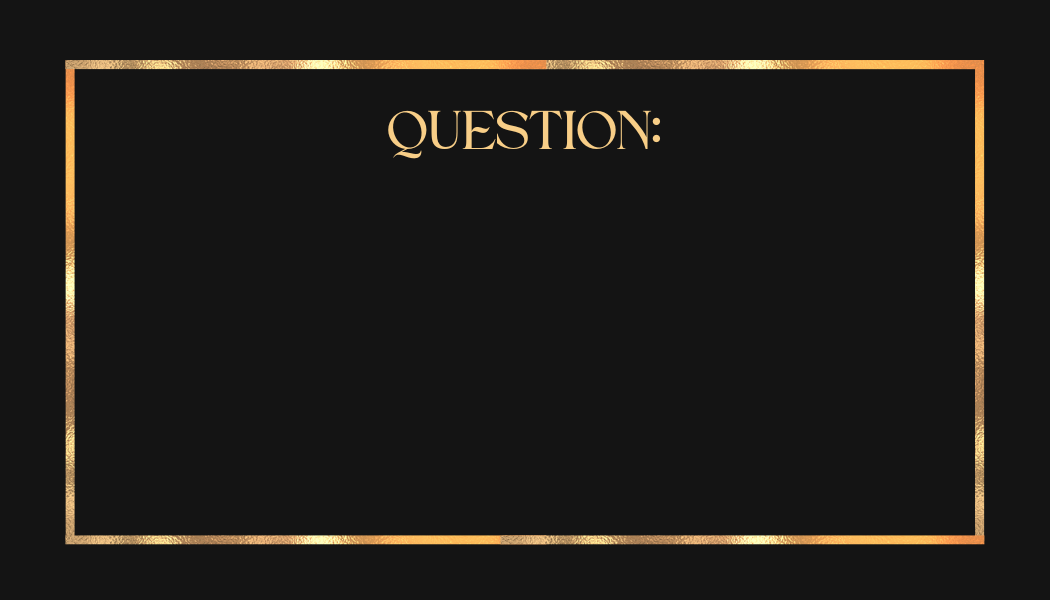
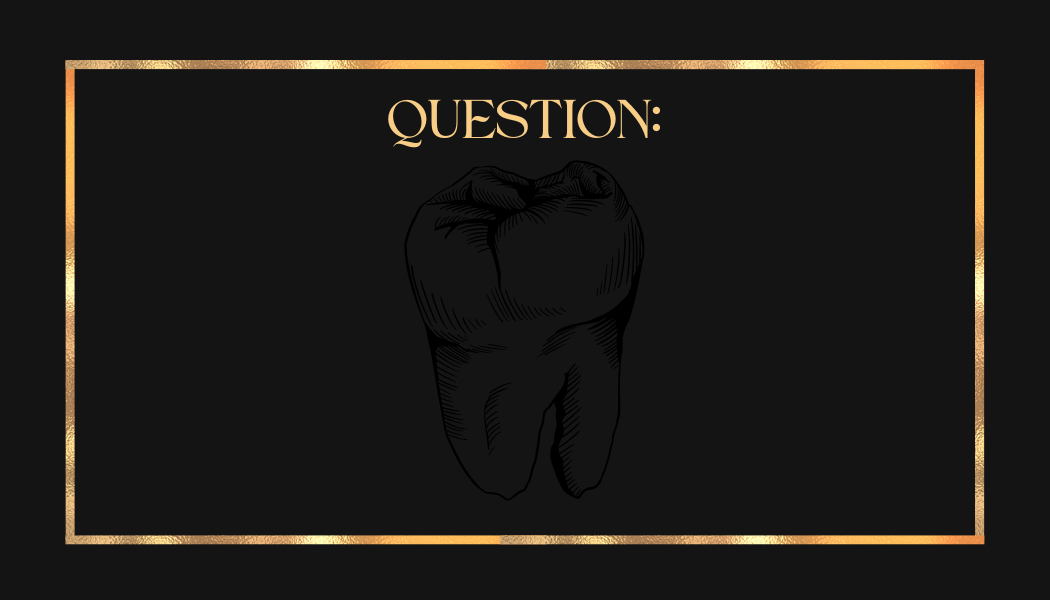
Try again the reveal on mobile

Changed region(s): [[0.3657, 0.15, 0.64, 0.27]]

diff --git a/components/components.module.css b/components/components.module.css
@@ -8,6 +8,7 @@
     border: 2px solid grey;
     border-radius: 20px;
     position: relative;
+
 }
 
 .checkout-container{
@@ -46,14 +47,15 @@
 }
 
 /*-----------------------------------------------------------------------------------QuizCardStyles-------------------------------------------------------------------------------*/
-
+ 
 .quizCardContainer{
     position: relative;
     width: 700px;
     height: 400px;   
     border-radius: 10px;
     transition: transform 1.5s; 
-    cursor: pointer;
+    cursor: pointer; 
+    transform-style: preserve-3d; 
 }
 
 .back{
@@ -62,15 +64,16 @@
     height: 100%; 
     border-radius: 10px;  
     overflow: hidden; 
+    backface-visibility: hidden;  
 }
 
 .back::before{
     content: "";
     position: absolute;
-    left: 250px;
-    width: 180px;
-    height: 820px; 
-    top: -210px;
+    width: 25%;
+    height: 210%; 
+    top: -55%;
+    left: 37.5%;
     background: linear-gradient(to right, #ffd700, #b8860b); 
     box-shadow: 2px 0 30px rgb(255, 170, 0);
     animation: animate 10s linear infinite;
@@ -114,7 +117,9 @@
     display: none; 
 }
  
-
+.tilting{
+    animation: tilting 3s linear infinite;
+}
 
 @keyframes animate{
     0%{
@@ -123,6 +128,45 @@
         transform: rotate(360deg);
     }
 }
+ 
+/*------------------------------------------------------------------------Navbar Styles---------------------------------------------------------------------------------- */
+
+.navbarContainer{ 
+    width: 100%;
+    background-color: linear-gradient(to right, #f5f5f5, #ffffff, #e0f7fa);; 
+    display: flex;
+    justify-content: space-between; 
+    padding: 20px 50px;
+    align-items: center;
+}
+
+.intro{
+    display: flex;
+    align-items: center;
+    gap: 10px;
+    font-size: 25px;
+}
+
+.navigation{
+    display: flex; 
+    height: 25px;
+    width: 300px;
+    justify-content: space-between; 
+    font-size: 20px; 
+} 
+
+.navigation a{
+    border-bottom: 2px solid #b8870b00;
+    transition: all 0.4s ease-out;
+}
+
+.navigation a:hover{ 
+    border-bottom: 2px solid #f696a4;
+}
+
+
+/*---------------------------------------------------------------------Media Styles------------------------------------------------------------------------ */
+
 
 @media screen and (max-width: 1000px) {
     .quizCardContainer{ 
@@ -130,17 +174,31 @@
         height: 286px;    
     }
     .question{
-        font-size: 15px; 
+        font-size: 23px; 
+        width: 450px;
+    }
+}
+
+@media screen and (max-width: 700px) {
+    .quizCardContainer{ 
+        width: 400px;
+        height: 229px;    
+    }
+    .question{
+        font-size: 20px; 
         width: 300px;
+    }
+    .introTitle{
+        display: none;
     }
 }
 
 
 
-@media screen and (max-width: 330px) {
+@media screen and (max-width: 400px) {
     .quizCardContainer{ 
-        width: 250px;
-        height: 143px;    
+        width: 300px;
+        height: 171px;    
     }
     .question{
         font-size: 15px; 

diff --git a/components/QuizCard.tsx b/components/QuizCard.tsx
@@ -4,8 +4,7 @@ import {VanillaTilt} from "./tilt.js";
 import { data } from "@/data/database";
 
 const QuizCard = ( ) => { 
-    const [isActive, setIsActive] = useState(false);
-    const [isVisible, setIsVisible] = useState(false);
+    const [isActive, setIsActive] = useState(false); 
     const [questionIndex, setQuestionIndex] = useState(Math.floor(Math.random()*data.length))
     const [screenWidth, setScreenWidth] = useState(window.innerWidth); 
     window.addEventListener("resize", () => {
@@ -14,9 +13,7 @@ const QuizCard = ( ) => {
 
     const toogleState = () => { 
         setIsActive(!isActive)
-        setTimeout(()=>{
-            setIsVisible(!isVisible);
-        }, 420);
+         
     };
     useEffect(() => {
         if(screenWidth>1100) VanillaTilt();
@@ -28,7 +25,7 @@ const QuizCard = ( ) => {
                 <div className={styles.front }>
                     <span className={styles.question}>{`${questionIndex+1}. ${data[questionIndex].question}`}</span>
                 </div>
-                <div className={[styles.back, isVisible ? styles.visible : ""].join(' ')}></div>
+                <div className={styles.back}></div>
             </div> 
             <script></script>
         </section> 

diff --git a/components/Navbar.tsx b/components/Navbar.tsx
@@ -1,9 +1,21 @@
-import React from 'react'
+import Link from "next/link";
+import Image from "next/image";
+import styles from "./components.module.css"
 
 const Navbar = () => {
-  return (
-    <nav className=''>Navbar</nav>
-  )
-}
+    return (
+        <section className={styles.navbarContainer}>
+            <Link href="/" className={styles.intro}>
+                <Image src="/Logo.png" alt="Logo" width={50} height={50} />
+                <p className={styles.introTitle}>Flashcards</p>
+            </Link>
+            <nav className={styles.navigation}>
+                <Link href="/">Main</Link>
+                <Link href="/study">Study</Link>
+                <Link href="/Quiz">Quiz Yourself</Link>
+            </nav>
+        </section>
+    );
+};
 
 export default Navbar;

diff --git a/app/Quiz/page.module.css b/app/Quiz/page.module.css
@@ -2,6 +2,8 @@
     width: 1000px;
     height: 80vh;
     display: flex;
+    flex-direction: column;
+    gap: 40px;
     justify-content: center;
     align-items: center; 
     margin: 0 auto;
@@ -19,9 +21,15 @@
     }
 }
 
-
-@media screen and (max-width: 330px){
+@media screen and (max-width: 700px){
     .quizContainer{
-        width: 250px; 
+        width: 400px; 
+    }
+}
+
+
+@media screen and (max-width: 410px){
+    .quizContainer{
+        width: 300px; 
     }
 }

diff --git a/app/page.tsx b/app/page.tsx
@@ -11,7 +11,7 @@ export default function Home() {
                         <button className={styles.button}>Study</button>
                     </Link>
                     <Link href="/Quiz">
-                        <button className={styles.button}>Start Quiz</button>
+                        <button className={styles.button}>Quiz Yourself</button>
                     </Link>
                 </div>
             </div>

diff --git a/app/study/page.tsx b/app/study/page.tsx
@@ -10,7 +10,8 @@ const study = () => {
                 <h1 className={styles.title}>Study Hall</h1>
                 <input type="text" className={styles.input} />
             </div>
-            <section className="">
+            <section className={styles.cardContainer
+            }>
                 {data.map((el, i) => (
                     <Minicard
                         title={el.question}

diff --git a/app/layout.tsx b/app/layout.tsx
@@ -6,6 +6,12 @@ import Navbar from "@/components/Navbar";
 export const metadata: Metadata = {
     title: "FlashCards Chirurgie",
     description: "Studying Dental Surgery",
+    icons: [
+        {
+            url: "/logo.png",
+            href: "/logo.png",
+        },
+    ],
 };
 
 export default function RootLayout({

diff --git a/app/Quiz/page.tsx b/app/Quiz/page.tsx
@@ -12,6 +12,9 @@ const Quiz = () => {
     return (
         <div className={styles.quizContainer}> 
             {isClient ? <QuizCard/> : ""}
+            <div className={styles.quizButtonsContainer}>
+                <button>Draw a card</button>
+            </div>
         </div>
     );
 };
